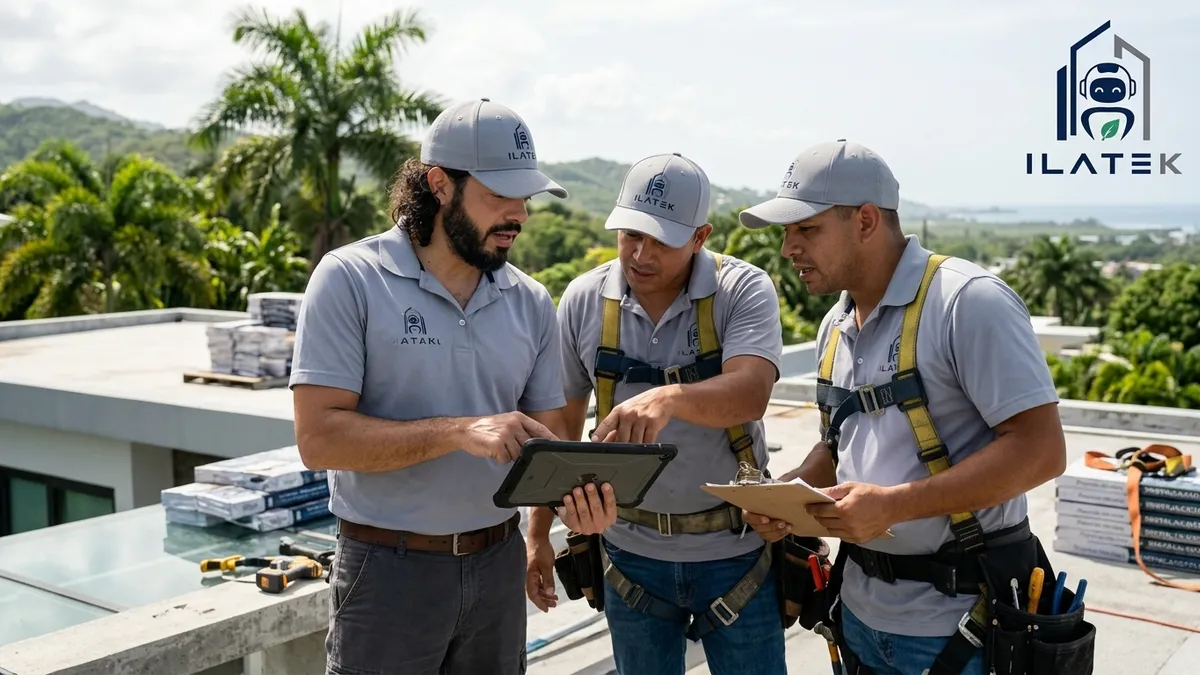
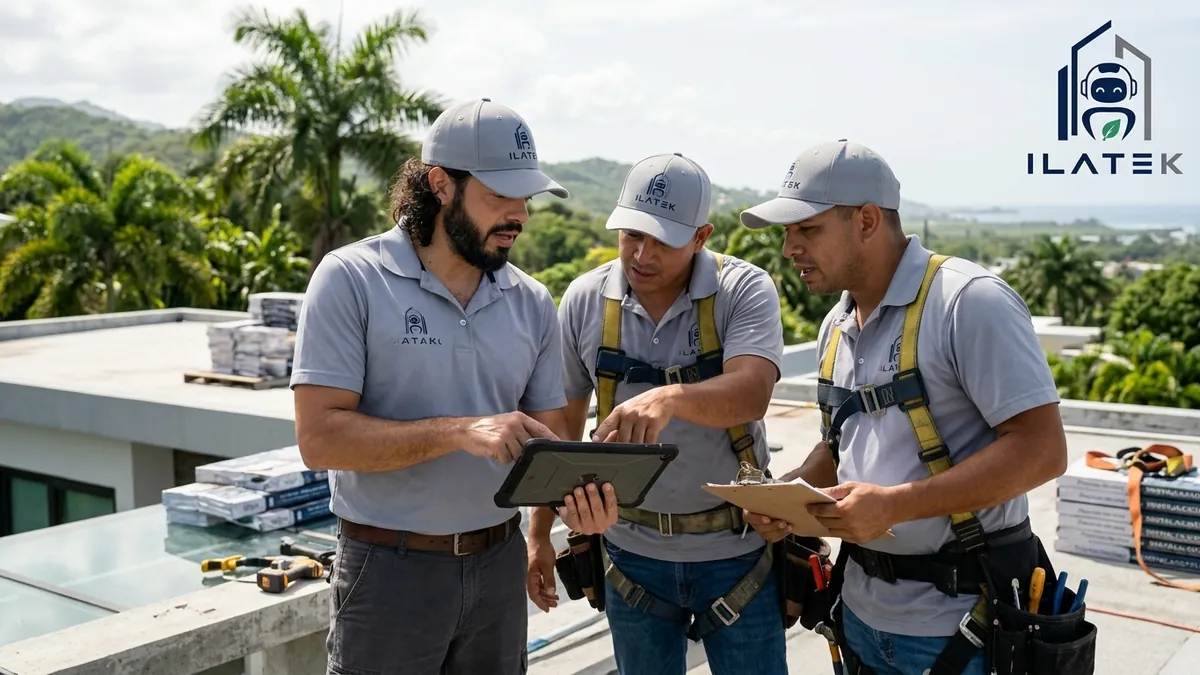
reparacion-de-grietas-techos: fotos nuevas (64a hero / f28 incl) + social a4 y cotizacion $0 reembolsable
Hero e imagen "que incluye" de /reparacion-de-grietas-techos con las dos
fotos 1 y 2 de "Servicio de Reparación de Grietas" del CDN de GHL
(1376x768, transform LCTR, webp 16:9 1200x675 con respaldo local, la f28
compartida con techos-de-concreto). Imagen social dedicada 6ac72673 (a4)
"Reparación de Grietas - Ilatek" en og:image/twitter:image via
TECHOS_IMG_SOCIAL. Cotización: fact card "$0 cotización — Gratis, se
agenda con $50 reembolsables" (+1 dia típico para mantener 3 facts),
FAQ de inspección $0 reembolsables en reparacion.mjs y serviceDesc de
META alineada. Verifiers en 0.

🤖 Generated with Codebuff

diff --git a/servicios/reparacion-de-grietas-techos/es/landing-pages/ghl-reparacion-de-grietas-techos-landing.html b/servicios/reparacion-de-grietas-techos/es/landing-pages/ghl-reparacion-de-grietas-techos-landing.html
@@ -1167,13 +1167,13 @@ html,body{overflow-x:clip}</style>
             <a class="ilt-text-link" href="https://{{custom_values.website_url}}/reparacion-de-grietas-techos#ilatek-techos-reparacion-de-grietas-techos-incluye" data-ilatek-path="/reparacion-de-grietas-techos#ilatek-techos-reparacion-de-grietas-techos-incluye" data-ilatek-anchor="ilatek-techos-reparacion-de-grietas-techos-incluye">Qué incluye el servicio ↓</a>
           </div>
           <div class="ilt-hero-facts">
-            <div><b><i>$275</i> por grieta</b><span>Sellado puntual</span></div>
+            <div><b><i>$0</i> cotización</b><span>Gratis, se agenda con $50 reembolsables</span></div>
             <div><b><i>78</i> municipios</b><span>Cobertura en PR</span></div>
-            <div><b><i>$0</i> inspección</b><span>Evaluación gratis</span></div>
+            <div><b><i>1</i> día típico</b><span>Sellado completado</span></div>
           </div>
         </div>
         <figure class="ilt-hero-card ilt-reveal">
-          <img src="https://cdn.jsdelivr.net/gh/aocpdev/Ilatek@main/assets/optimized/techos/6ac046fb0edabbe5a4a7647c.webp" onerror="this.onerror=null;this.src='https://cdn.jsdelivr.net/gh/aocpdev/Ilatek@main/assets/optimized/hero-poster-1280.webp'" width="1778" height="1000" loading="eager" decoding="async" fetchpriority="high" alt="Reparación de grietas en techo de concreto — sellado de losa en {{custom_values.county_name_and_state}}" title="Reparación de Grietas en Techos · Ilatek Techos — servicio en {{custom_values.county_name_and_state}}" data-ilatek-local-alt="Reparaci%C3%B3n%20de%20grietas%20en%20techo%20de%20concreto%20%E2%80%94%20sellado%20de%20losa%20en%20%7B%7Bcustom_values.county_name_and_state%7D%7D" data-ilatek-local-title="Reparaci%C3%B3n%20de%20Grietas%20en%20Techos%20%C2%B7%20Ilatek%20Techos%20%E2%80%94%20servicio%20en%20%7B%7Bcustom_values.county_name_and_state%7D%7D">
+          <img src="https://images.leadconnectorhq.com/image/f_webp/q_80/r_1200/u_https://assets.cdn.filesafe.space/8OxUENFVM60EKzqsTcoD/media/6ac8583bbbad531ac844964a.jpg" onerror="this.onerror=null;this.src='https://cdn.jsdelivr.net/gh/aocpdev/Ilatek@main/assets/optimized/hero-poster-1280.webp'" width="1778" height="1000" loading="eager" decoding="async" fetchpriority="high" alt="Reparación de grietas en techo de concreto — sellado de losa en {{custom_values.county_name_and_state}}" title="Reparación de Grietas en Techos · Ilatek Techos — servicio en {{custom_values.county_name_and_state}}" data-ilatek-local-alt="Reparaci%C3%B3n%20de%20grietas%20en%20techo%20de%20concreto%20%E2%80%94%20sellado%20de%20losa%20en%20%7B%7Bcustom_values.county_name_and_state%7D%7D" data-ilatek-local-title="Reparaci%C3%B3n%20de%20Grietas%20en%20Techos%20%C2%B7%20Ilatek%20Techos%20%E2%80%94%20servicio%20en%20%7B%7Bcustom_values.county_name_and_state%7D%7D">
           <span class="ilt-hero-badge"><i></i>Sellado estructural</span>
         </figure>
       </div>
@@ -1221,7 +1221,7 @@ html,body{overflow-x:clip}</style>
           </div>
         </div>
         <figure class="ilt-media ilt-reveal">
-          <img src="https://cdn.jsdelivr.net/gh/aocpdev/Ilatek@main/assets/optimized/techos/6ac046fb85f560d1666999ff.webp" onerror="this.onerror=null;this.src='https://cdn.jsdelivr.net/gh/aocpdev/Ilatek@main/assets/optimized/hero-poster-1280.webp'" width="1778" height="1000" loading="lazy" decoding="async" alt="Sellado de grietas en losa de concreto de Ilatek Techos en {{custom_values.county_name_and_state}} — reparación de techos" title="Reparación de grietas en techos · Ilatek Techos — servicio en {{custom_values.county_name_and_state}}" data-ilatek-local-alt="Sellado%20de%20grietas%20en%20losa%20de%20concreto%20de%20Ilatek%20Techos%20en%20%7B%7Bcustom_values.county_name_and_state%7D%7D%20%E2%80%94%20reparaci%C3%B3n%20de%20techos" data-ilatek-local-title="Reparaci%C3%B3n%20de%20grietas%20en%20techos%20%C2%B7%20Ilatek%20Techos%20%E2%80%94%20servicio%20en%20%7B%7Bcustom_values.county_name_and_state%7D%7D">
+          <img src="https://images.leadconnectorhq.com/image/f_webp/q_80/r_1200/u_https://assets.cdn.filesafe.space/8OxUENFVM60EKzqsTcoD/media/6ac8583bcc7a5a2b73475f28.jpg" onerror="this.onerror=null;this.src='https://cdn.jsdelivr.net/gh/aocpdev/Ilatek@main/assets/optimized/hero-poster-1280.webp'" width="1778" height="1000" loading="lazy" decoding="async" alt="Sellado de grietas en losa de concreto de Ilatek Techos en {{custom_values.county_name_and_state}} — reparación de techos" title="Reparación de grietas en techos · Ilatek Techos — servicio en {{custom_values.county_name_and_state}}" data-ilatek-local-alt="Sellado%20de%20grietas%20en%20losa%20de%20concreto%20de%20Ilatek%20Techos%20en%20%7B%7Bcustom_values.county_name_and_state%7D%7D%20%E2%80%94%20reparaci%C3%B3n%20de%20techos" data-ilatek-local-title="Reparaci%C3%B3n%20de%20grietas%20en%20techos%20%C2%B7%20Ilatek%20Techos%20%E2%80%94%20servicio%20en%20%7B%7Bcustom_values.county_name_and_state%7D%7D">
           <figcaption>Sellado flexible · Resistente al calor</figcaption>
         </figure>
       </div>
@@ -1489,6 +1489,7 @@ html,body{overflow-x:clip}</style>
           <details class="ilt-faq-item"><summary><h3>¿Se puede sellar la grieta si está mojada?</h3><span class="ilt-chevron" aria-hidden="true">▾</span></summary><p>No de forma definitiva: <b>el sellador necesita superficie seca para adherir</b>. Si hay lluvia activa, estabilizamos y volvemos cuando la superficie esté seca para el sellado permanente.</p></details>
           <details class="ilt-faq-item"><summary><h3>¿Cómo sabré si la grieta necesitaba reparación estructural?</h3><span class="ilt-chevron" aria-hidden="true">▾</span></summary><p><b>En la inspección lo determinamos.</b> Si la grieta expone varillas oxidadas o atraviesa toda la losa, te lo decimos de frente y cotizamos el refuerzo necesario, sin venderte de más.</p></details>
           <details class="ilt-faq-item"><summary><h3>¿Cuánto tarda sellar las grietas de un techo?</h3><span class="ilt-chevron" aria-hidden="true">▾</span></summary><p>Un techo residencial típico se completa <b>el mismo día</b>, incluyendo lavado a presión, relleno y membrana. Techos grandes o con muchas grietas pueden extenderse a dos días; te lo confirmamos en la cotización.</p></details>
+          <details class="ilt-faq-item"><summary><h3>¿Cuánto cuesta la inspección de grietas?</h3><span class="ilt-chevron" aria-hidden="true">▾</span></summary><p><b>Nada.</b> La cotización para evaluar tus grietas es $0 y se agenda con $50 reembolsables. Revisamos el techo, medimos las grietas y te damos el precio por escrito sin compromiso.</p></details>
           <details class="ilt-faq-item"><summary><h3>¿Por qué elegir Ilatek Techos para las grietas de tu techo?</h3><span class="ilt-chevron" aria-hidden="true">▾</span></summary><p>Usamos sellador flexible, no cemento rígido que se parte otra vez; al cerrar la grieta el agua no alcanza las varillas y evitamos el óxido estructural — desde $275 con inspección gratis y garantía escrita.</p></details>
         </div>
       </div>
@@ -1582,16 +1583,16 @@ html,body{overflow-x:clip}</style>
    "image": [
     {
      "@type": "ImageObject",
-     "url": "https://cdn.jsdelivr.net/gh/aocpdev/Ilatek@main/assets/optimized/techos/6ac046fb0edabbe5a4a7647c.webp",
-     "contentUrl": "https://assets.cdn.filesafe.space/8OxUENFVM60EKzqsTcoD/media/6ac046fb0edabbe5a4a7647c.jpg",
+     "url": "https://images.leadconnectorhq.com/image/f_webp/q_80/r_1200/u_https://assets.cdn.filesafe.space/8OxUENFVM60EKzqsTcoD/media/6ac8583bbbad531ac844964a.jpg",
+     "contentUrl": "https://assets.cdn.filesafe.space/8OxUENFVM60EKzqsTcoD/media/6ac8583bbbad531ac844964a.jpg",
      "width": 1200,
      "height": 675,
      "caption": "Reparación de Grietas en Techos · Ilatek Techos"
     },
     {
      "@type": "ImageObject",
-     "url": "https://cdn.jsdelivr.net/gh/aocpdev/Ilatek@main/assets/optimized/techos/6ac046fb85f560d1666999ff.webp",
-     "contentUrl": "https://assets.cdn.filesafe.space/8OxUENFVM60EKzqsTcoD/media/6ac046fb85f560d1666999ff.jpg",
+     "url": "https://images.leadconnectorhq.com/image/f_webp/q_80/r_1200/u_https://assets.cdn.filesafe.space/8OxUENFVM60EKzqsTcoD/media/6ac8583bcc7a5a2b73475f28.jpg",
+     "contentUrl": "https://assets.cdn.filesafe.space/8OxUENFVM60EKzqsTcoD/media/6ac8583bcc7a5a2b73475f28.jpg",
      "width": 1200,
      "height": 675,
      "caption": "Reparación de grietas en techos · Ilatek Techos"
@@ -1710,22 +1711,22 @@ html,body{overflow-x:clip}</style>
    "@type": "Service",
    "@id": "https://{{custom_values.website_url}}/reparacion-de-grietas-techos/#service-offer",
    "name": "Reparación de Grietas en Techos de Concreto",
-   "description": "Sellado de grietas en techos de concreto y losas en Puerto Rico: sellador flexible y membrana impermeabilizante desde $275, con garantía escrita.",
+   "description": "Sellado de grietas en techos de concreto y losas en Puerto Rico: sellador flexible y membrana impermeabilizante desde $275, con cotización $0 agendada con $50 reembolsables y garantía escrita.",
    "serviceType": "Reparación de Grietas en Techos de Concreto",
    "url": "https://{{custom_values.website_url}}/reparacion-de-grietas-techos",
    "image": [
     {
      "@type": "ImageObject",
-     "url": "https://cdn.jsdelivr.net/gh/aocpdev/Ilatek@main/assets/optimized/techos/6ac046fb0edabbe5a4a7647c.webp",
-     "contentUrl": "https://assets.cdn.filesafe.space/8OxUENFVM60EKzqsTcoD/media/6ac046fb0edabbe5a4a7647c.jpg",
+     "url": "https://images.leadconnectorhq.com/image/f_webp/q_80/r_1200/u_https://assets.cdn.filesafe.space/8OxUENFVM60EKzqsTcoD/media/6ac8583bbbad531ac844964a.jpg",
+     "contentUrl": "https://assets.cdn.filesafe.space/8OxUENFVM60EKzqsTcoD/media/6ac8583bbbad531ac844964a.jpg",
      "width": 1200,
      "height": 675,
      "caption": "Reparación de Grietas en Techos · Ilatek Techos"
     },
     {
      "@type": "ImageObject",
-     "url": "https://cdn.jsdelivr.net/gh/aocpdev/Ilatek@main/assets/optimized/techos/6ac046fb85f560d1666999ff.webp",
-     "contentUrl": "https://assets.cdn.filesafe.space/8OxUENFVM60EKzqsTcoD/media/6ac046fb85f560d1666999ff.jpg",
+     "url": "https://images.leadconnectorhq.com/image/f_webp/q_80/r_1200/u_https://assets.cdn.filesafe.space/8OxUENFVM60EKzqsTcoD/media/6ac8583bcc7a5a2b73475f28.jpg",
+     "contentUrl": "https://assets.cdn.filesafe.space/8OxUENFVM60EKzqsTcoD/media/6ac8583bcc7a5a2b73475f28.jpg",
      "width": 1200,
      "height": 675,
      "caption": "Reparación de grietas en techos · Ilatek Techos"
@@ -1863,6 +1864,14 @@ html,body{overflow-x:clip}</style>
    "acceptedAnswer": {
     "@type": "Answer",
     "text": "Un techo residencial típico se completa el mismo día, incluyendo lavado a presión, relleno y membrana. Techos grandes o con muchas grietas pueden extenderse a dos días; te lo confirmamos en la cotización."
+   }
+  },
+  {
+   "@type": "Question",
+   "name": "¿Cuánto cuesta la inspección de grietas?",
+   "acceptedAnswer": {
+    "@type": "Answer",
+    "text": "Nada. La cotización para evaluar tus grietas es $0 y se agenda con $50 reembolsables. Revisamos el techo, medimos las grietas y te damos el precio por escrito sin compromiso."
    }
   },
   {

diff --git a/techos/ghl-techos-head-seo.html b/techos/ghl-techos-head-seo.html
@@ -102,12 +102,12 @@
 <meta property="og:title" content="Reparación de Grietas en Techos de Concreto en {{custom_values.county_name_and_state}} | Ilatek Techos" data-ilatek-local-content="Reparaci%C3%B3n%20de%20Grietas%20en%20Techos%20de%20Concreto%20en%20%7B%7Bcustom_values.county_name_and_state%7D%7D%20%7C%20Ilatek%20Techos">
 <meta property="og:description" content="Reparación de grietas en techos de concreto y losas en {{custom_values.county_name_and_state}} desde $275. Sellado estructural que detiene la entrada de agua con garantía por escrito." data-ilatek-local-content="Reparaci%C3%B3n%20de%20grietas%20en%20techos%20de%20concreto%20y%20losas%20en%20%7B%7Bcustom_values.county_name_and_state%7D%7D%20desde%20%24275.%20Sellado%20estructural%20que%20detiene%20la%20entrada%20de%20agua%20con%20garant%C3%ADa%20por%20escrito.">
 <meta property="og:url" content="https://{{custom_values.website_url}}/reparacion-de-grietas-techos">
-<meta property="og:image" content="https://assets.cdn.filesafe.space/8OxUENFVM60EKzqsTcoD/media/6ac046fb0edabbe5a4a7647c.jpg">
+<meta property="og:image" content="https://assets.cdn.filesafe.space/8OxUENFVM60EKzqsTcoD/media/6ac72673bbad531ac82477a4.jpg">
 <meta property="og:image:alt" content="Reparación de Grietas en Techos de Concreto en {{custom_values.county_name_and_state}} | Ilatek Techos" data-ilatek-local-content="Reparaci%C3%B3n%20de%20Grietas%20en%20Techos%20de%20Concreto%20en%20%7B%7Bcustom_values.county_name_and_state%7D%7D%20%7C%20Ilatek%20Techos">
 <meta name="twitter:card" content="summary_large_image">
 <meta name="twitter:title" content="Reparación de Grietas en Techos de Concreto en {{custom_values.county_name_and_state}} | Ilatek Techos" data-ilatek-local-content="Reparaci%C3%B3n%20de%20Grietas%20en%20Techos%20de%20Concreto%20en%20%7B%7Bcustom_values.county_name_and_state%7D%7D%20%7C%20Ilatek%20Techos">
 <meta name="twitter:description" content="Reparación de grietas en techos de concreto y losas en {{custom_values.county_name_and_state}} desde $275. Sellado estructural que detiene la entrada de agua con garantía por escrito." data-ilatek-local-content="Reparaci%C3%B3n%20de%20grietas%20en%20techos%20de%20concreto%20y%20losas%20en%20%7B%7Bcustom_values.county_name_and_state%7D%7D%20desde%20%24275.%20Sellado%20estructural%20que%20detiene%20la%20entrada%20de%20agua%20con%20garant%C3%ADa%20por%20escrito.">
-<meta name="twitter:image" content="https://assets.cdn.filesafe.space/8OxUENFVM60EKzqsTcoD/media/6ac046fb0edabbe5a4a7647c.jpg">
+<meta name="twitter:image" content="https://assets.cdn.filesafe.space/8OxUENFVM60EKzqsTcoD/media/6ac72673bbad531ac82477a4.jpg">
 <meta name="twitter:image:alt" content="Reparación de Grietas en Techos de Concreto en {{custom_values.county_name_and_state}} | Ilatek Techos" data-ilatek-local-content="Reparaci%C3%B3n%20de%20Grietas%20en%20Techos%20de%20Concreto%20en%20%7B%7Bcustom_values.county_name_and_state%7D%7D%20%7C%20Ilatek%20Techos">
 <meta name="geo.region" content="US-PR">
 <meta name="geo.placename" content="{{custom_values.county_name_and_state}}" data-ilatek-local-content="%7B%7Bcustom_values.county_name_and_state%7D%7D">

diff --git a/servicios/reparacion-de-grietas-techos/es/HEAD-TEMPLATE.html b/servicios/reparacion-de-grietas-techos/es/HEAD-TEMPLATE.html
@@ -8,12 +8,12 @@
 <meta property="og:title" content="Reparación de Grietas en Techos de Concreto en {{custom_values.county_name_and_state}} | Ilatek Techos" data-ilatek-local-content="Reparaci%C3%B3n%20de%20Grietas%20en%20Techos%20de%20Concreto%20en%20%7B%7Bcustom_values.county_name_and_state%7D%7D%20%7C%20Ilatek%20Techos">
 <meta property="og:description" content="Reparación de grietas en techos de concreto y losas en {{custom_values.county_name_and_state}} desde $275. Sellado estructural que detiene la entrada de agua con garantía por escrito." data-ilatek-local-content="Reparaci%C3%B3n%20de%20grietas%20en%20techos%20de%20concreto%20y%20losas%20en%20%7B%7Bcustom_values.county_name_and_state%7D%7D%20desde%20%24275.%20Sellado%20estructural%20que%20detiene%20la%20entrada%20de%20agua%20con%20garant%C3%ADa%20por%20escrito.">
 <meta property="og:url" content="https://{{custom_values.website_url}}/reparacion-de-grietas-techos">
-<meta property="og:image" content="https://assets.cdn.filesafe.space/8OxUENFVM60EKzqsTcoD/media/6ac046fb0edabbe5a4a7647c.jpg">
+<meta property="og:image" content="https://assets.cdn.filesafe.space/8OxUENFVM60EKzqsTcoD/media/6ac72673bbad531ac82477a4.jpg">
 <meta property="og:image:alt" content="Reparación de Grietas en Techos de Concreto en {{custom_values.county_name_and_state}} | Ilatek Techos" data-ilatek-local-content="Reparaci%C3%B3n%20de%20Grietas%20en%20Techos%20de%20Concreto%20en%20%7B%7Bcustom_values.county_name_and_state%7D%7D%20%7C%20Ilatek%20Techos">
 <meta name="twitter:card" content="summary_large_image">
 <meta name="twitter:title" content="Reparación de Grietas en Techos de Concreto en {{custom_values.county_name_and_state}} | Ilatek Techos" data-ilatek-local-content="Reparaci%C3%B3n%20de%20Grietas%20en%20Techos%20de%20Concreto%20en%20%7B%7Bcustom_values.county_name_and_state%7D%7D%20%7C%20Ilatek%20Techos">
 <meta name="twitter:description" content="Reparación de grietas en techos de concreto y losas en {{custom_values.county_name_and_state}} desde $275. Sellado estructural que detiene la entrada de agua con garantía por escrito." data-ilatek-local-content="Reparaci%C3%B3n%20de%20grietas%20en%20techos%20de%20concreto%20y%20losas%20en%20%7B%7Bcustom_values.county_name_and_state%7D%7D%20desde%20%24275.%20Sellado%20estructural%20que%20detiene%20la%20entrada%20de%20agua%20con%20garant%C3%ADa%20por%20escrito.">
-<meta name="twitter:image" content="https://assets.cdn.filesafe.space/8OxUENFVM60EKzqsTcoD/media/6ac046fb0edabbe5a4a7647c.jpg">
+<meta name="twitter:image" content="https://assets.cdn.filesafe.space/8OxUENFVM60EKzqsTcoD/media/6ac72673bbad531ac82477a4.jpg">
 <meta name="twitter:image:alt" content="Reparación de Grietas en Techos de Concreto en {{custom_values.county_name_and_state}} | Ilatek Techos" data-ilatek-local-content="Reparaci%C3%B3n%20de%20Grietas%20en%20Techos%20de%20Concreto%20en%20%7B%7Bcustom_values.county_name_and_state%7D%7D%20%7C%20Ilatek%20Techos">
 <meta name="geo.region" content="US-PR">
 <meta name="geo.placename" content="{{custom_values.county_name_and_state}}" data-ilatek-local-content="%7B%7Bcustom_values.county_name_and_state%7D%7D">

diff --git a/servicios/reparacion-de-grietas-techos/es/SEO-GHL.md b/servicios/reparacion-de-grietas-techos/es/SEO-GHL.md
@@ -16,13 +16,13 @@ Reparación de grietas en techos de concreto y losas en {{custom_values.county_n
 
 ## Meta Tag Image
 
-[Imagen social — URL pública](https://assets.cdn.filesafe.space/8OxUENFVM60EKzqsTcoD/media/6ac046fb0edabbe5a4a7647c.jpg)
+[Imagen social — URL pública](https://assets.cdn.filesafe.space/8OxUENFVM60EKzqsTcoD/media/6ac72673bbad531ac82477a4.jpg)
 
 ```text
-https://assets.cdn.filesafe.space/8OxUENFVM60EKzqsTcoD/media/6ac046fb0edabbe5a4a7647c.jpg
+https://assets.cdn.filesafe.space/8OxUENFVM60EKzqsTcoD/media/6ac72673bbad531ac82477a4.jpg
 ```
 
-Copia local: [assets/respaldo/6ac046fb0edabbe5a4a7647c.webp](assets/respaldo/6ac046fb0edabbe5a4a7647c.webp). No usar una ruta local en GHL.
+Copia local: [assets/meta-image.jpg](assets/meta-image.jpg). No usar una ruta local en GHL.
 
 ## Canonical existente
 
@@ -55,9 +55,3 @@ Antes de publicar cada snapshot, comprobar el HTML servido por GHL: Title, Descr
 ## Dominio y enlaces internos
 
 Configurar `website_url` como dominio sin protocolo ni barra final, por ejemplo `ilatekpr.com`. Los enlaces y canonical usan `https://{{custom_values.website_url}}/ruta`. Validar que GHL entregue estos valores resueltos en el HEAD público; no confiar en JavaScript para los metadatos sociales.
-
-## Aviso sobre la imagen social original
-
-La URL original del CDN no está disponible. La copia local es la variante WebP del mismo ID, no el JPG original.
-
-Alternativa existente en el repositorio: [imagen WebP](https://cdn.jsdelivr.net/gh/aocpdev/Ilatek@main/assets/optimized/techos/6ac046fb0edabbe5a4a7647c.webp). Antes de instalar el SEO, comprobar esta URL pública y usarla como Social Image si continúa disponible. El embed y el HEAD de referencia no se modificaron automáticamente.
